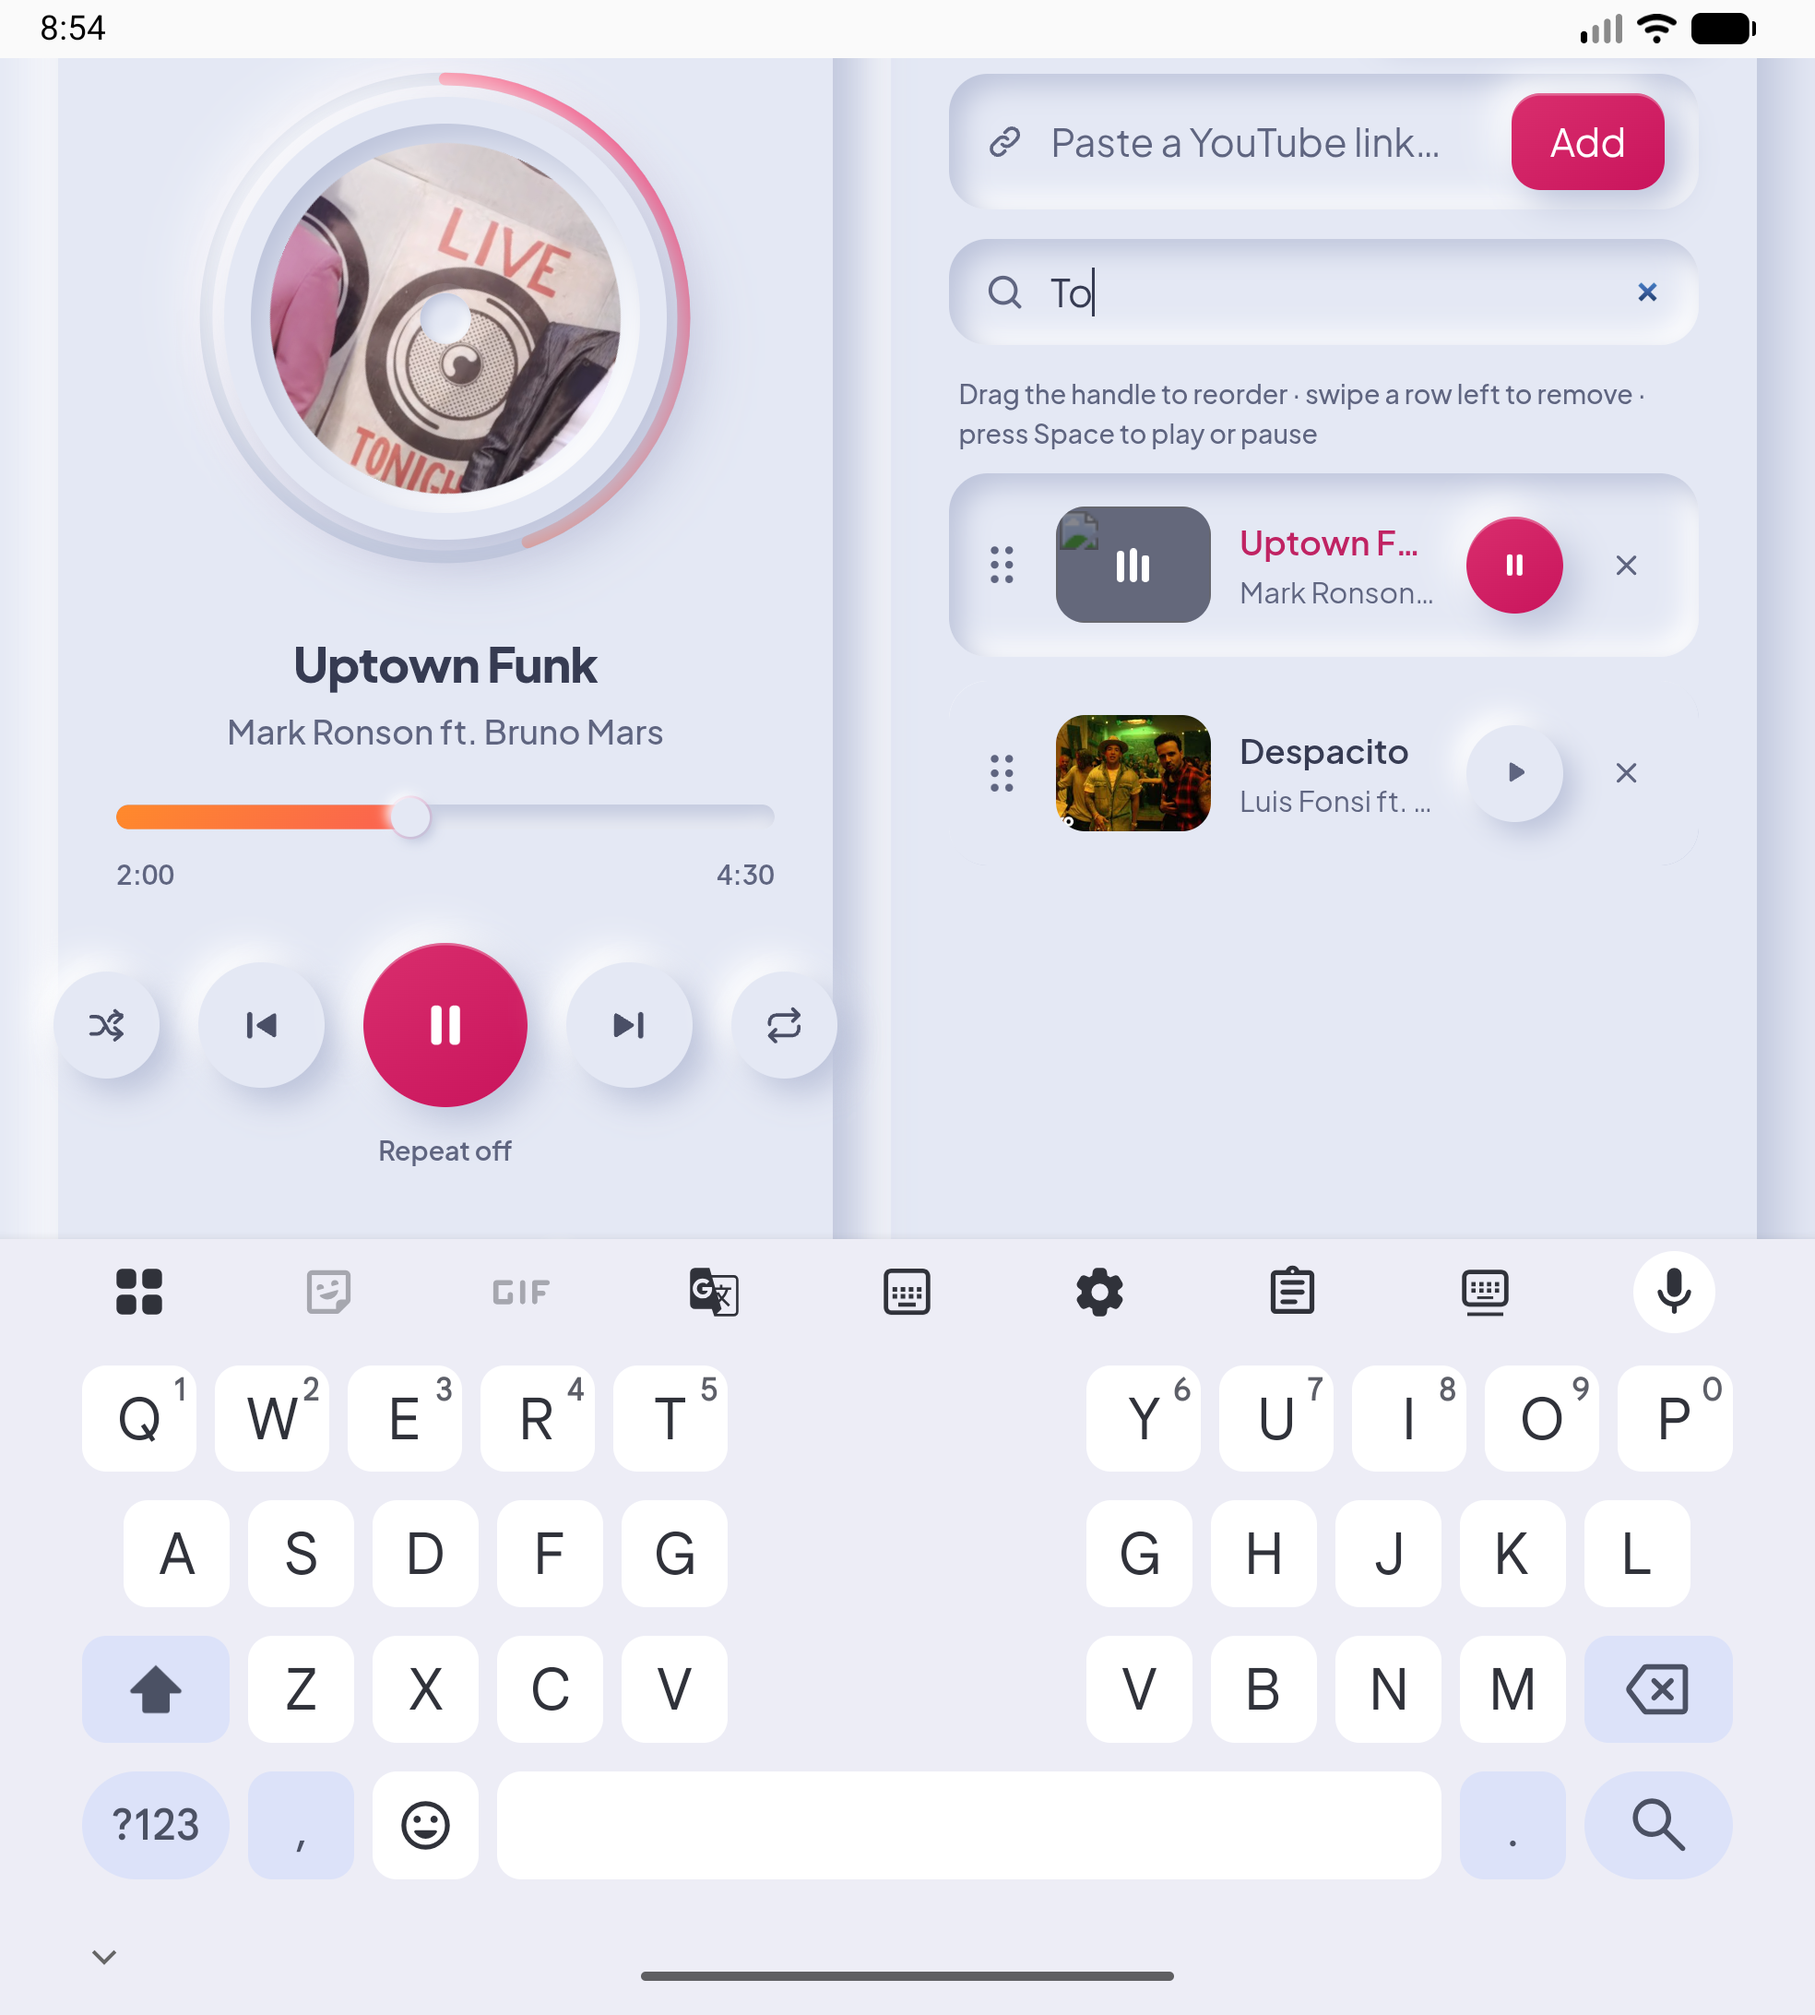
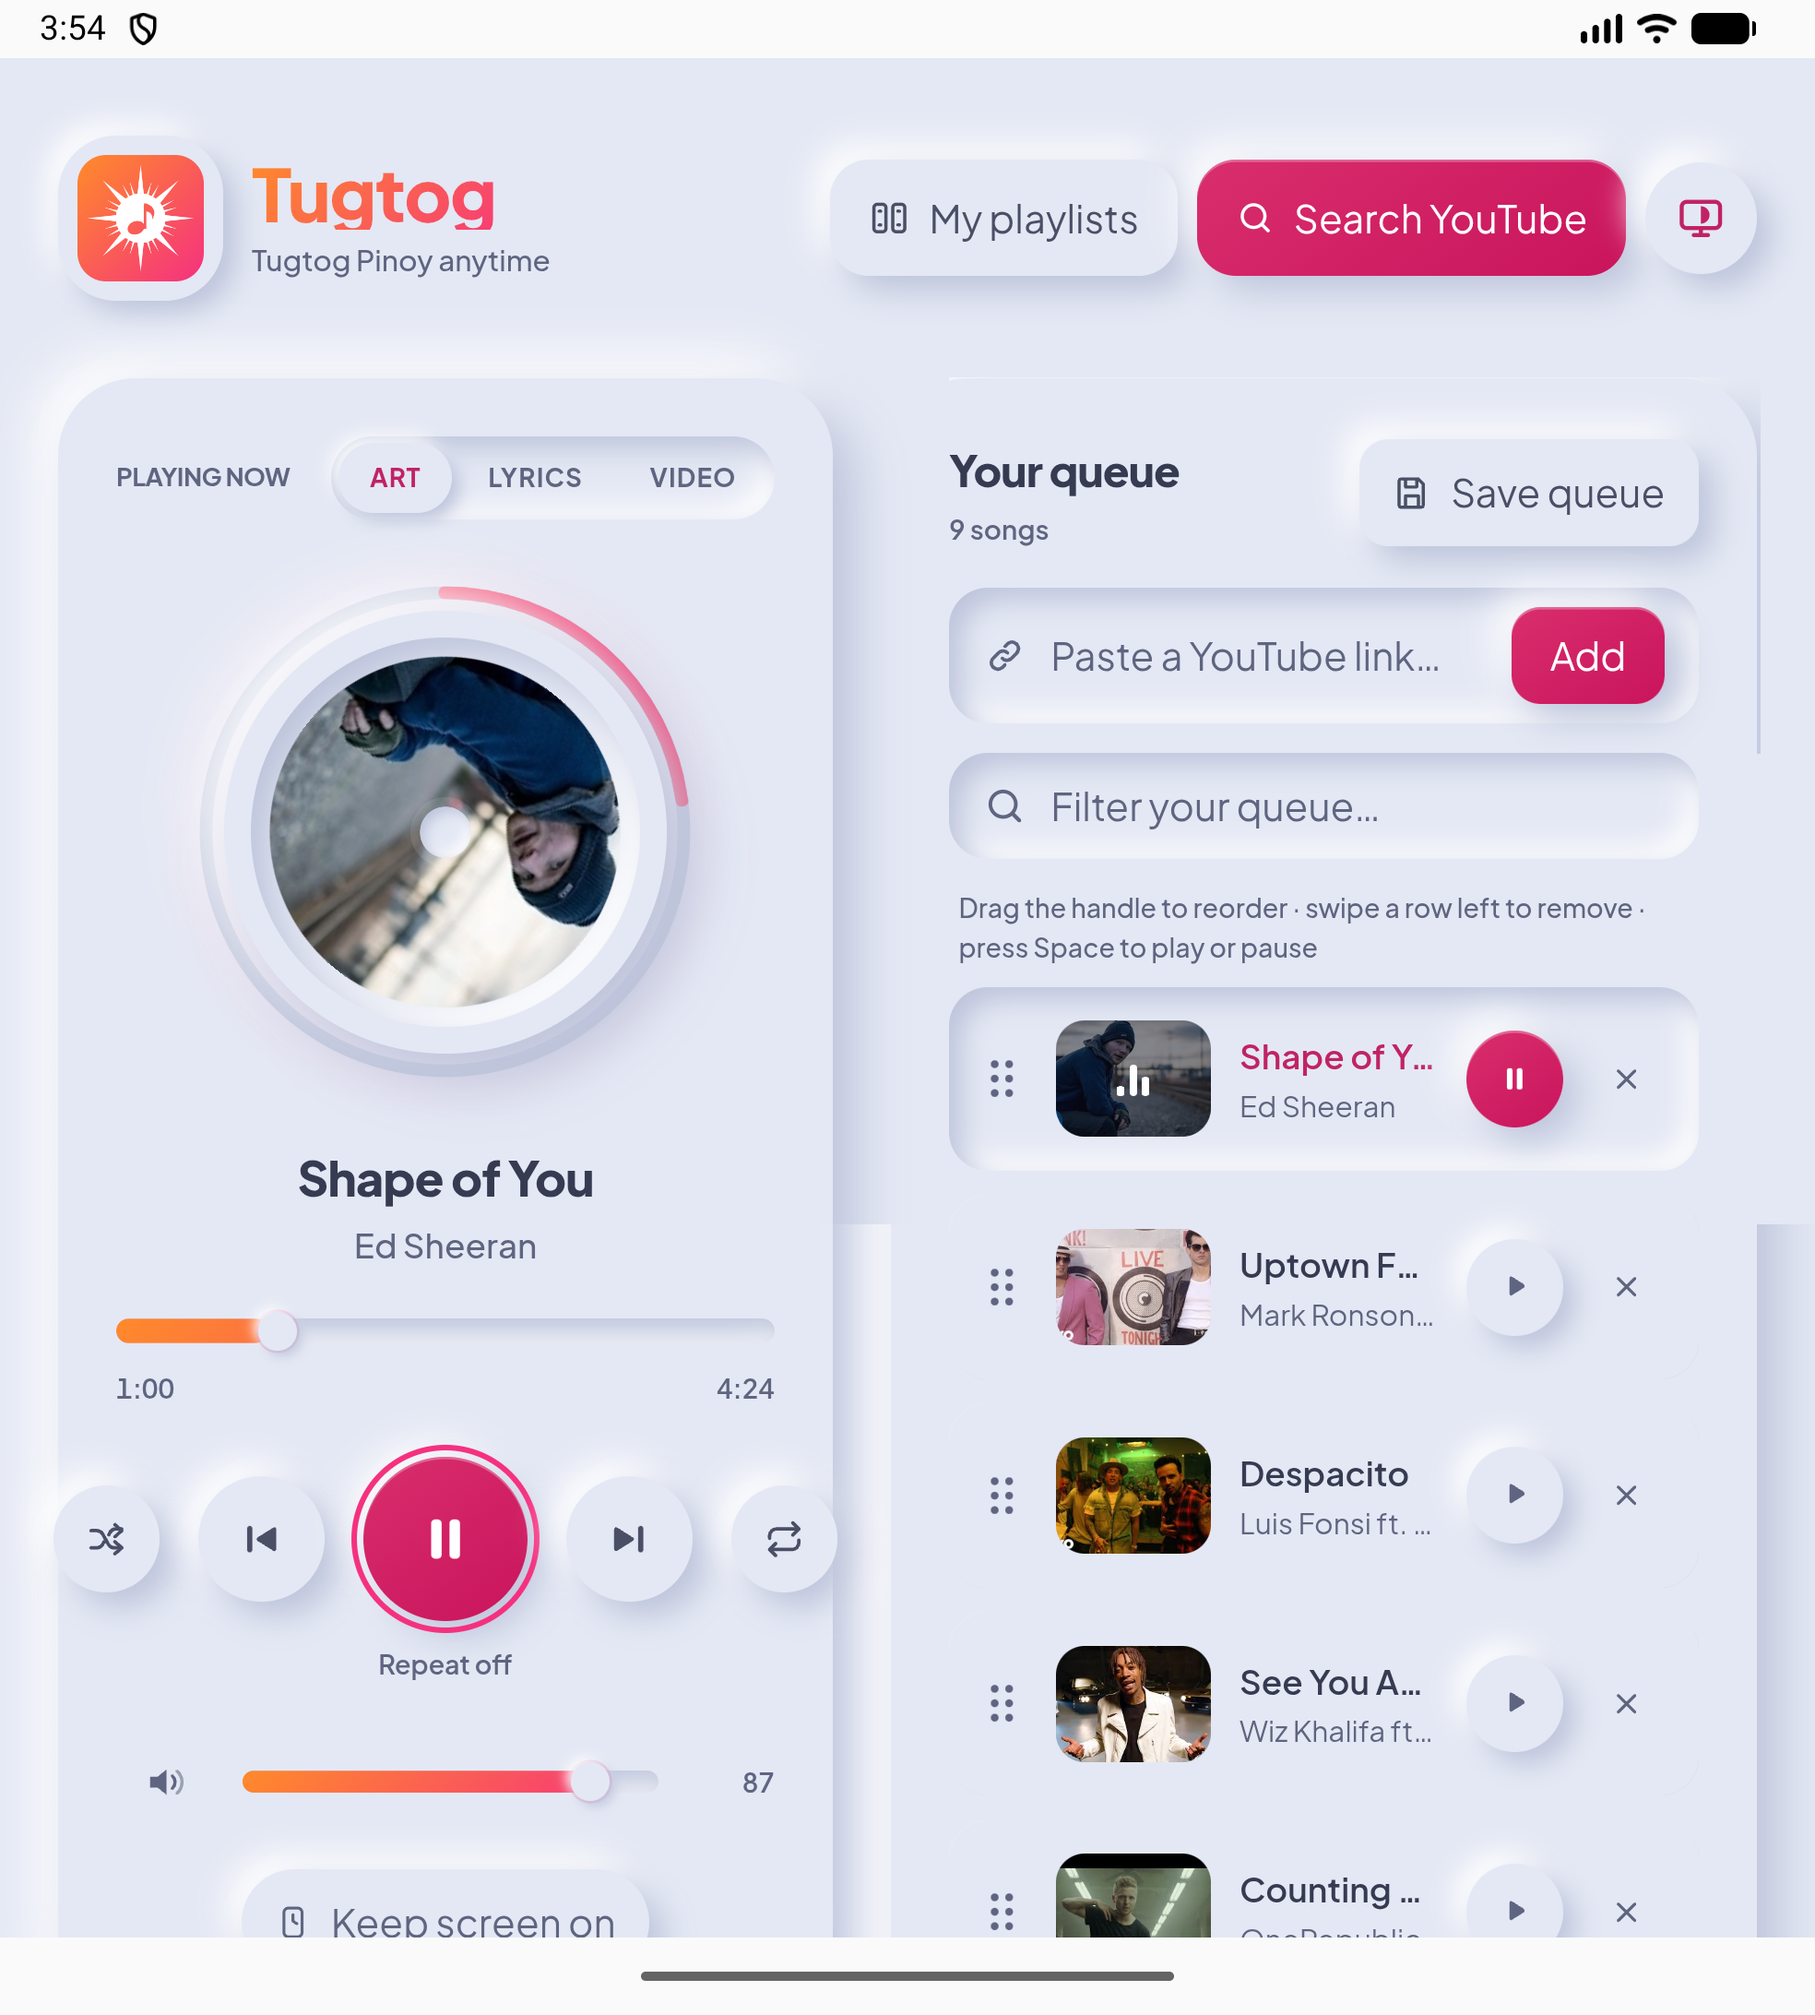
chore(store): recapture screenshots under the Tugtog branding
All three showed the old Youtugtog header. Recaptured from the release APK
on an emulator at the same sizes.

- phone-1-player.png  light theme, playing (1080x2400)
- phone-2-dark.png    dark theme, playing (1080x2400) -- replaces
                      phone-2-queue.png, see below
- foldable-1-twopane.png  two-pane layout with the queue (1968x2184)

The old set also had the Android keyboard covering the bottom third of every
shot plus a "Google Play id..." autofill bar, so these are a straight upgrade
regardless of the rename.

phone-2 is the dark theme rather than the queue because the queue panel does
not render correctly on Android: in WebView 155 the sheet sits horizontally
offset, clipping "Your queue" to "our queue" and pushing "Save queue" and
"Add" past the right edge. It reproduces from a clean launch and is NOT a
capture artefact. The same markup renders correctly in a desktop browser at
the same 411px CSS width, so it is a WebView-specific bug worth a real fix.
The queue is still represented in the large-screen shot, where it is fine.

Also fixes .claude/launch.json, which pointed runtimeExecutable at
~/.nvm/versions/node/v22.14.0/bin/node -- a path that does not exist on this
machine. Now points at the mise-managed Node 22.12.0.

diff --git a/store-listing/README.md b/store-listing/README.md
@@ -7,7 +7,7 @@ Generated from the app itself — screenshots are real emulator captures, not mo
 | `icon-512.png` | App icon | 512×512 |
 | `feature-graphic-1024x500.png` | Feature graphic | 1024×500 |
 | `screenshots/phone-1-player.png` | Phone screenshot | 1080×2400 |
-| `screenshots/phone-2-queue.png` | Phone screenshot | 1080×2400 |
+| `screenshots/phone-2-dark.png` | Phone screenshot | 1080×2400 |
 | `screenshots/foldable-1-twopane.png` | Tablet / large screen | 1968×2184 |
 
 Play requires the icon, the feature graphic, and at least 2 phone screenshots.
@@ -40,6 +40,15 @@ With an emulator running and the app installed:
 
     adb shell am start -n com.youtugtog.app/.MainActivity
     adb exec-out screencap -p > store-listing/screenshots/phone-1-player.png
+
+Playback must be running before you capture — autoplay is blocked, so tap the
+play button first and give it a few seconds, or the player sits at 0:00 / --:--
+and looks broken. Known issue: do NOT capture the queue panel on Android. In
+WebView 155 the queue sheet renders horizontally offset, clipping "Your queue"
+and pushing "Save queue" past the right edge. The same markup is correct in a
+desktop browser at the same CSS width, so it is a WebView bug, not a layout
+bug. The queue is shown in the large-screen shot instead, where it renders
+correctly.
 
 For the large-screen shot, override the display first and reset it after:
 

diff --git a/store-listing/play-console.md b/store-listing/play-console.md
@@ -55,7 +55,7 @@ Character limits are Play's, and every field below is already inside them.
 
 **App icon** — `store-listing/icon-512.png` (512×512) ✓
 **Feature graphic** — `store-listing/feature-graphic-1024x500.png` (1024×500) ✓
-**Phone screenshots** — `screenshots/phone-1-player.png`, `phone-2-queue.png` (1080×2400) ✓
+**Phone screenshots** — `screenshots/phone-1-player.png`, `phone-2-dark.png` (1080×2400) ✓
 **Tablet / large screen** — `screenshots/foldable-1-twopane.png` (1968×2184) ✓
 
 **App category** — Music & Audio
